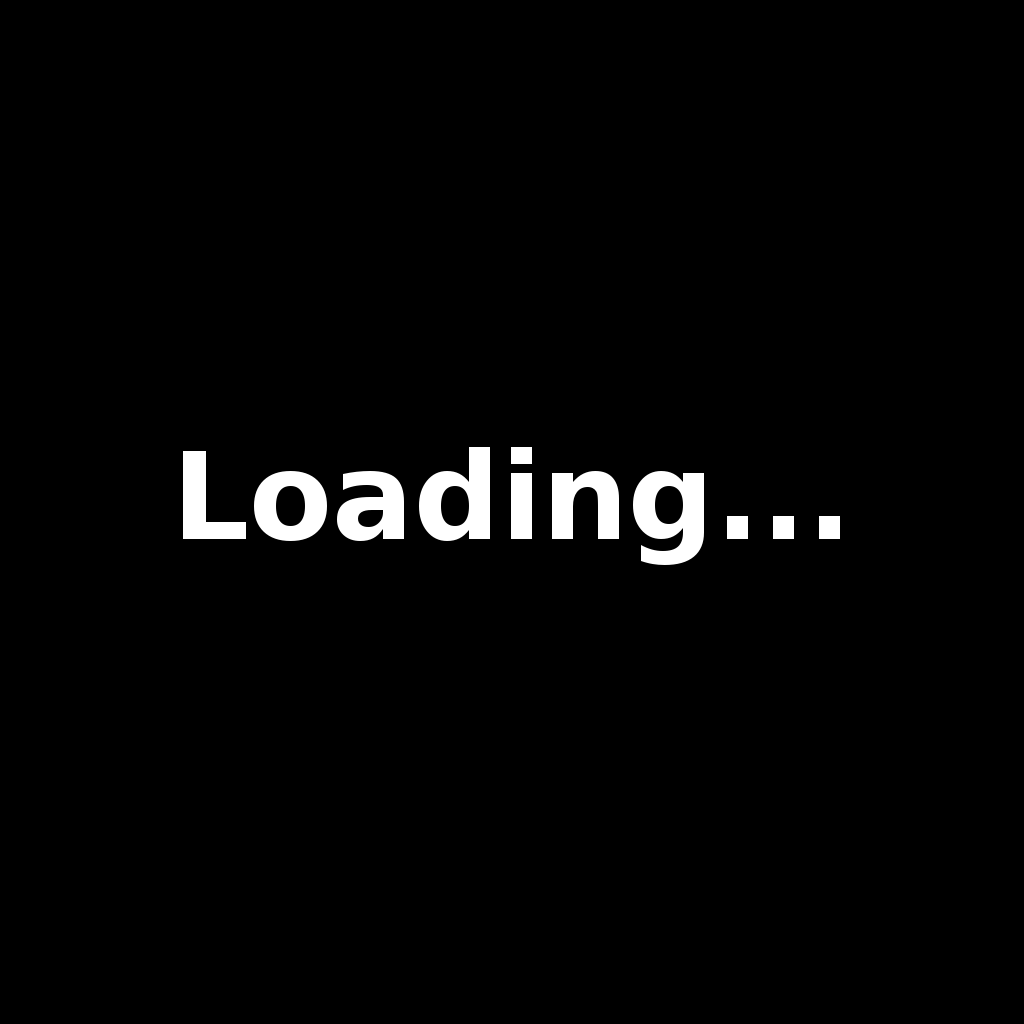
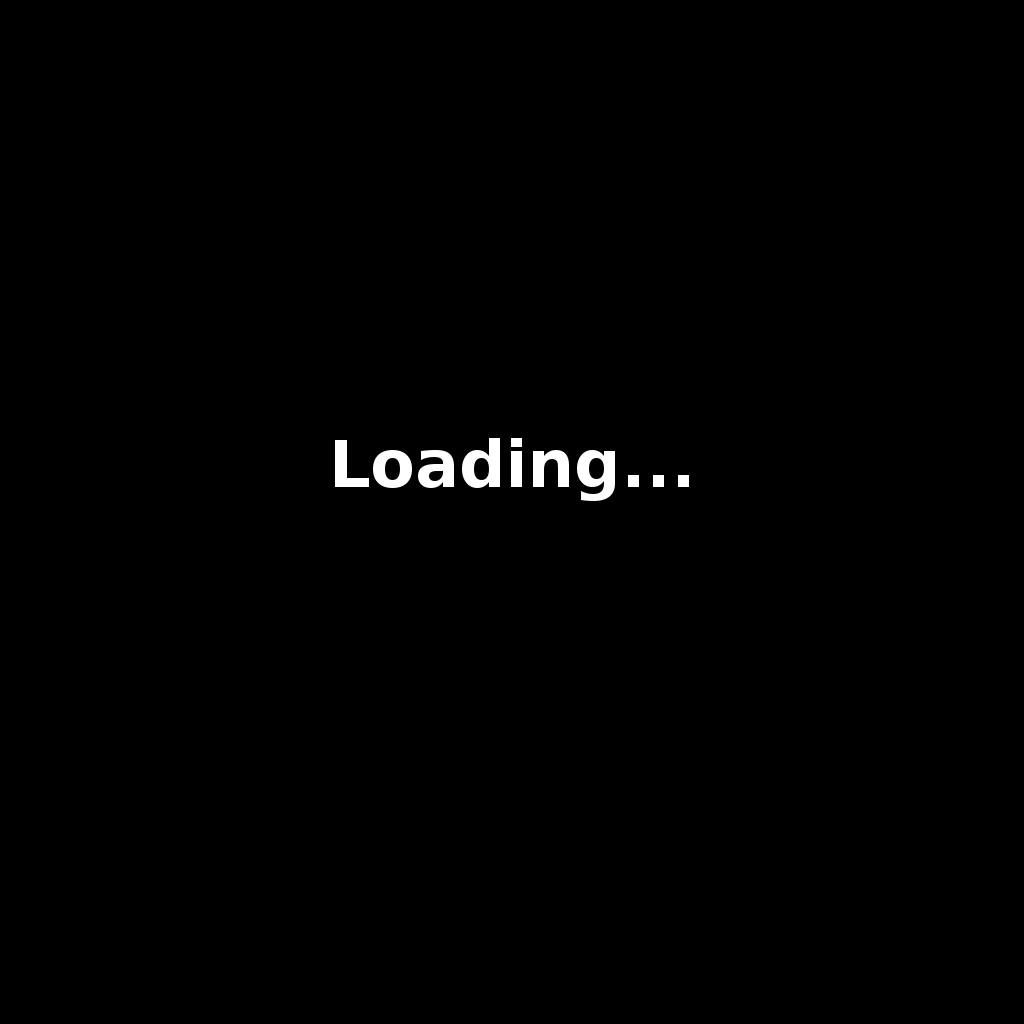
Added waiting for player screen

Changed region(s): [[0.1562, 0.4062, 0.8438, 0.5625]]

diff --git a/March of the Bombs/GameScreen.cpp b/March of the Bombs/GameScreen.cpp
@@ -30,18 +30,22 @@ void GameScreen::spawnBomb(glm::vec3 const& position, glm::vec3 const& rotation,
 
 void GameScreen::createExplosion(glm::vec3 const& position, float size, float duration, bool removeBlocks)
 {
+	// Add new explosion
 	explosions.push_back(Explosion(position, glm::vec2(size), duration));
+	// Limit explosion sounds to one per frame
 	if (explosionsThisFrame < 1)
 	{
 		game->getSoundManager()->playSound("Sounds/bombexplosion.mp3", position, 30.f);
 	}
 	explosionsThisFrame++;
 
+	// Find all bombs within the explosion radius
 	Bomb::id_set nearbyBombs;
 	glm::vec2 groundPos(glm::swizzle<glm::X, glm::Z>(position));
 	getNearbyBombs(groundPos, size * 0.5f, nearbyBombs);
 	BOOST_FOREACH(Bomb::id const& id, nearbyBombs)
 	{
+		// Only deal with the players own bombs
 		if (id.first == myID)
 		{
 			Bomb& bomb = myEntities[id.second];
@@ -55,6 +59,7 @@ void GameScreen::createExplosion(glm::vec3 const& position, float size, float du
 		}
 	}
 	
+	// Blow up blocks
 	if (removeBlocks)
 	{
 		float blockExplosionRadius = size * 0.8f;
@@ -69,6 +74,7 @@ void GameScreen::createExplosion(glm::vec3 const& position, float size, float du
 
 		std::vector<glm::ivec2> blocks;
 
+		// For every block in a square...
 		for (int x = minPos.x; x <= maxPos.x; x++)
 		{
 			for (int y = minPos.y; y <= maxPos.y; y++)
@@ -84,6 +90,7 @@ void GameScreen::createExplosion(glm::vec3 const& position, float size, float du
 			}
 		}
 
+		// If any block to remove was found...
 		if (!blocks.empty())
 		{
 			Packet::ptr packet(new Packet14RemoveBlocks(blocks));
@@ -91,6 +98,7 @@ void GameScreen::createExplosion(glm::vec3 const& position, float size, float du
 		}
 	}
 
+	// Give score for every explosion close to the opponents base
 	if (glm::distance(position, opponentBasePos) < size * 0.5f)
 	{
 		scoreThisFrame += BASE_POINTS_PER_BOMB;

diff --git a/March of the Bombs/CreateGameScreen.cpp b/March of the Bombs/CreateGameScreen.cpp
@@ -5,7 +5,7 @@
 #include "Game.h"
 
 #include "GameScreen.h"
-#include "LoadingScreen.h"
+#include "WaitingScreen.h"
 
 void CreateGameScreen::goBack()
 {
@@ -44,8 +44,8 @@ void CreateGameScreen::setupComponents()
 		0));
 
 	okButton.reset(new Button(
-		TextureSection(L"Images/NewBI/NPBtn1.png"),
-		TextureSection(L"Images/NewBI/NPBtn2.png"),
+		TextureSection(L"Images/NewBI/CGBtn1.png"),
+		TextureSection(L"Images/NewBI/CGBtn2.png"),
 		Rectanglef(glm::vec2(0.55f, 0.1f), glm::vec2(0.25f, 0.1f)),
 		0));
 
@@ -86,8 +86,8 @@ void CreateGameScreen::mouseButtonEventHandler(MouseButtonEvent* mbEvent)
 
 				if (selectedMap >= 0 && static_cast<size_t>(selectedMap) < mapNames.size())
 				{
-					Packet::ptr packet = Packet::ptr(new Packet6CreateGame(mapNames[static_cast<size_t>(selectedMap)]));
-					client->write(packet);
+					nextScreen.reset(new WaitingScreen(client, playerName, playerID, mapNames[static_cast<size_t>(selectedMap)]));
+					Game::getInstance()->getEvents().clear();
 				}
 			}
 		}
@@ -187,16 +187,4 @@ Screen::ptr CreateGameScreen::getNextScreen()
 	Screen::ptr screen;
 	screen.swap(nextScreen);
 	return screen;
-}
-
-void CreateGameScreen::handlePacket8SetupGame(Packet8SetupGame::const_ptr const& packet)
-{
-	Packet8SetupGame const* packet8 = static_cast<Packet8SetupGame const*>(packet.get());
-
-	glm::vec3 myColor = glm::vec3(1.f, 1.f, 0.f) - packet8->getOpponentColor();
-	
-	nextScreen.reset(new LoadingScreen(client, playerName, playerID, myColor,
-		"Hasse", packet8->getOpponentID(), packet8->getOpponentColor(),
-		packet8->getMapName(), packet8->getBaseID()));
-	Game::getInstance()->getEvents().clear();
 }

diff --git a/March of the Bombs/WaitingScreen.cpp b/March of the Bombs/WaitingScreen.cpp
@@ -1,0 +1,55 @@
+#include "WaitingScreen.h"
+
+#include "Game.h"
+#include "LoadingScreen.h"
+
+WaitingScreen::WaitingScreen(GameClient::ptr const& client, std::string const& playerName,
+	unsigned short playerID, std::string const& mapName)
+	: client(client), playerName(playerName), playerID(playerID), mapName(mapName)
+{
+}
+
+void WaitingScreen::atEntry()
+{
+	Game::getInstance()->getGraphics()->setBackground(
+		TextureSection::ptr(new TextureSection(L"Images/background_waiting.png")));
+
+	Packet::ptr packet = Packet::ptr(new Packet6CreateGame(mapName));
+	client->write(packet);
+}
+
+void WaitingScreen::update(float deltaTime)
+{
+	if (client && client->isRunning())
+	{
+		while (client->hasReceivedPackets() && !nextScreen)
+		{
+			Packet::ptr packet = client->popReceivedPacket();
+			packet->dispatch(&shared_from_this());
+		}
+	}
+
+	Game::getInstance()->getEvents().clear();
+}
+
+void WaitingScreen::draw(Graphics::ptr graphics)
+{
+}
+
+Screen::ptr WaitingScreen::getNextScreen()
+{
+	Screen::ptr screen;
+	screen.swap(nextScreen);
+	return screen;
+}
+
+void WaitingScreen::handlePacket8SetupGame(Packet8SetupGame::const_ptr const& packet)
+{
+	Packet8SetupGame const* packet8 = static_cast<Packet8SetupGame const*>(packet.get());
+
+	glm::vec3 myColor = glm::vec3(1.f, 1.f, 0.f) - packet8->getOpponentColor();
+	
+	nextScreen.reset(new LoadingScreen(client, playerName, playerID, myColor,
+		"Hasse", packet8->getOpponentID(), packet8->getOpponentColor(),
+		packet8->getMapName(), packet8->getBaseID()));
+}

diff --git a/March of the Bombs/WaitingScreen.h b/March of the Bombs/WaitingScreen.h
@@ -1,0 +1,32 @@
+#pragma once
+
+#include "Screen.h"
+#include "GameClient.h"
+
+class WaitingScreen :
+	public Screen
+{
+private:
+	Screen::ptr nextScreen;
+
+	GameClient::ptr client;
+
+	std::string playerName;
+	unsigned short playerID;
+
+	std::string mapName;
+
+public:
+	typedef boost::shared_ptr<WaitingScreen> ptr;
+
+	WaitingScreen(GameClient::ptr const& client, std::string const& playerName,
+		unsigned short playerID, std::string const& mapName);
+
+	void atEntry();
+
+	void update(float deltaTime);
+	void draw(Graphics::ptr graphics);
+	Screen::ptr getNextScreen();
+	
+	virtual void handlePacket8SetupGame(Packet8SetupGame::const_ptr const& packet);
+};

diff --git a/March of the Bombs/CreateGameScreen.h b/March of the Bombs/CreateGameScreen.h
@@ -42,6 +42,4 @@ public:
 	void update(float deltaTime);
 	void draw(Graphics::ptr graphics);
 	Screen::ptr getNextScreen();
-	
-	virtual void handlePacket8SetupGame(Packet8SetupGame::const_ptr const& packet);
 };
